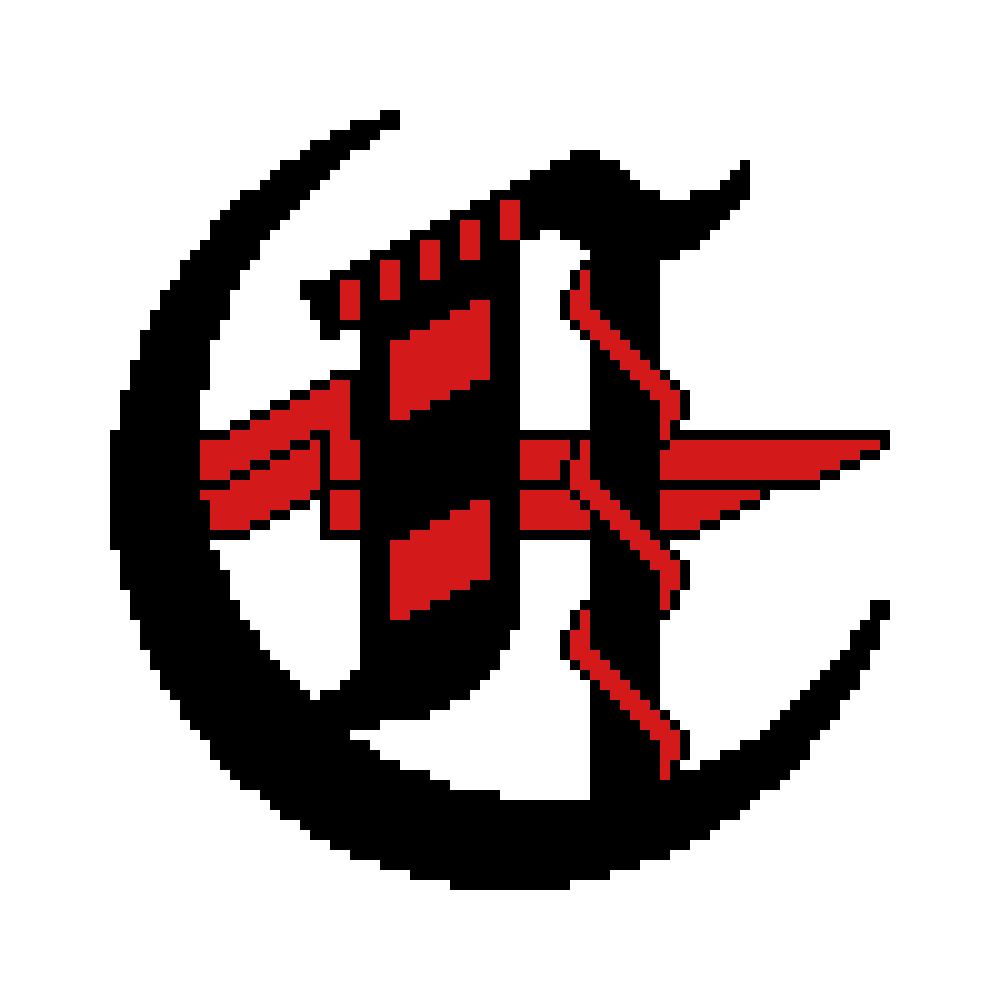
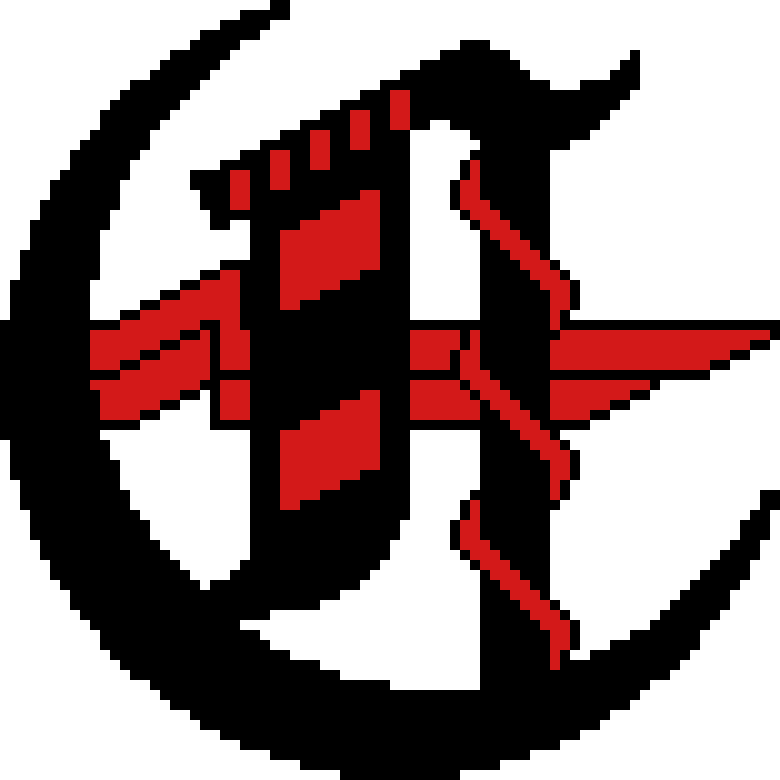
Resized the letters

diff --git a/assets/css/style.css b/assets/css/style.css
@@ -257,14 +257,19 @@ body {
   align-items: center;
   gap: 8px;
   z-index: 15;
+  opacity: 0;
+  transition: opacity .3s ease;
+}
+
+.hero__title--loaded {
+  opacity: 1;
 }
 
 .hero__title img {
   display: inline-block;
+  width: 120px;
   height: 140px;
-  max-height: 140px;
-  width: auto;
-  max-width: none;
+  object-fit: contain;
   image-rendering: pixelated;
   filter: drop-shadow(3px 3px 6px rgba(0, 0, 0, .5));
 }
@@ -471,7 +476,7 @@ body {
    Responsive
    ============================================= */
 @media (max-width: 1000px) {
-  .hero__title img { height: 60px; }
+  .hero__title img { width: 52px; height: 60px; }
   .cluster { width: 200px !important; min-width: 0; }
   .cluster__hand { width: 120px !important; }
   .cluster__char { width: 70px !important; }
@@ -481,7 +486,7 @@ body {
 
 @media (max-width: 650px) {
   .cluster { display: none; }
-  .hero__title img { height: 45px; }
+  .hero__title img { width: 39px; height: 45px; }
   .cta__link { font-size: 12px; padding: 10px 16px; }
   .team-wrap { width: 98%; }
   .team-grid { grid-template-columns: 1fr; }

diff --git a/index.html b/index.html
@@ -21,12 +21,24 @@
           { name: 'M', variants: 5 },
           { name: 'C', variants: 4 }
         ];
-        var html = '';
-        for (var i = 0; i < letters.length; i++) {
+
+        var container = document.getElementById('gameTitle');
+        var loaded = 0;
+        var total = letters.length;
+
+        for (var i = 0; i < total; i++) {
           var pick = Math.floor(Math.random() * letters[i].variants) + 1;
-          html += '<img src="assets/img/title/' + letters[i].name + '/' + pick + '.png" alt="' + letters[i].name + '">';
+          var img = new Image();
+          img.alt = letters[i].name;
+          img.src = 'assets/img/title/' + letters[i].name + '/' + pick + '.png';
+          img.onload = img.onerror = function() {
+            loaded++;
+            if (loaded === total) {
+              container.classList.add('hero__title--loaded');
+            }
+          };
+          container.appendChild(img);
         }
-        document.getElementById('gameTitle').innerHTML = html;
       })();
     </script>
 
